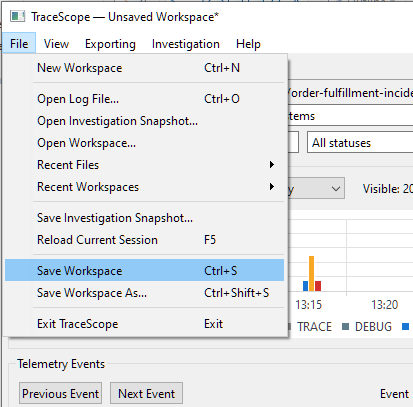
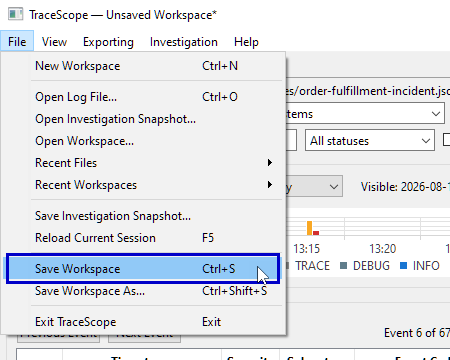
Refresh media for getting started guide

diff --git a/docs/getting-started.md b/docs/getting-started.md
@@ -2,6 +2,8 @@
 
 TraceScope is an offline desktop application for inspecting and investigating file-based diagnostic and telemetry logs. This guide takes you from launching the application to saving your first investigation, using a fictional software incident supplied with the project.
 
+![TraceScope overview](screenshots/getting-started-overview.png)
+
 You do not need to write code, run a server, or use the separate Live-Log Generator for this walkthrough.
 
 **In this guide, you will:**
@@ -62,28 +64,31 @@ The `.jsonl` extension means **JSON Lines**: each line holds an individual JSON 
 
 1. In TraceScope, choose **File > Open Log File...** (`Ctrl+O` on Windows).
 
-![Opening a log from the file menu](screenshots/getting-started-open-log.png)
+   ![Opening a log from the file menu](screenshots/getting-started-open-log.png)
+2. In the **Import Configuration** dialog, select **Browse...**
 
-2. In the **Import Configuration** dialog, select **Browse...** and choose `order-fulfillment-incident.jsonl`.
+   ![Browse for a log file](screenshots/getting-started-browse.png)
 
-![Browse for a log file](screenshots/getting-started-browse.png)
+   and choose `order-fulfillment-incident.jsonl`.
 
+   ![Browse for a log file](screenshots/getting-started-filename.png)
 3. Select **Load Profile...** and choose `order-fulfillment-incident-profile.json` from the `samples/profiles/` directory.
 
-![Loading a log profile](screenshots/getting-started-load-profile.png)
+   ![Loading a log profile](screenshots/getting-started-load-profile.png)
 
-4. Confirm that the profile is named **Order Fulfillment Incident**, the selected format is **JSON Lines**, and the configuration reports that the profile is valid.
+4. Confirm that the profile is named **Order Fulfillment Incident**, the selected format is **JSON Lines**,
 
-![Order Fulfillment Incident profile](screenshots/getting-started-profile-and-format.png)
-![Profile validation](screenshots/getting-started-profile-validation.png)
+   ![Order Fulfillment Incident profile](screenshots/getting-started-profile-and-format.png)
 
+   and the configuration reports that the profile is valid.
+
+   ![Profile validation](screenshots/getting-started-profile-validation.png)
 5. Examine the preview. You should see recognizable timestamps, severities, subsystems, and messages rather than having to interpret raw JSON yourself.
 
-![Profile preview](screenshots/getting-started-profile-preview.png)
-
+   ![Profile preview](screenshots/getting-started-profile-preview.png)
 6. Select **Import** to open the investigation.
 
-![Import profile](screenshots/getting-started-import.png)
+   ![Import profile](screenshots/getting-started-import.png)
 
 The Import Configuration layout may differ according to your window size. Its controls and validation have the same purpose in the wide and compact layouts.
 
@@ -93,23 +98,22 @@ The Import Configuration layout may differ according to your window size. Its co
 
 After the import, the log is displayed as an investigation. Take a moment to explore the main areas:
 
-- **Event table:** Browse, sort, and select normalized records. Source-specific fields appear alongside recognized investigation fields where available. Active categorical filter values appear bold within records.
+- **Event table:** Browse, sort, and select normalized records.
 
-![Event table](screenshots/getting-started-event-table.png)
+   ![Event table](screenshots/getting-started-event-table.png)
 
+   Source-specific fields appear alongside recognized investigation fields where available. Active categorical filter values appear bold within records.
 - **Filters and search:** Narrow the event table by severity, subsystem, event code, and other available fields, or search across the records.
 
-![Filters and search](screenshots/getting-started-filters-and-search.png)
+   ![Filters and search](screenshots/getting-started-filters-and-search.png)
+- **Event Details:** Select a record row in **Telemetry Events**. The separate **Event Details** panel shows the record's mapped values and **Custom Attributes** before **Source / Provenance**.
 
-- **Event Details:** Select a record row in **Telemetry Events**. The separate **Event Details** panel shows the record's mapped values and **Custom Attributes** before **Source / Provenance**. If you later save an analyst note, it appears above the record information in this same panel. This is also where you can bookmark and annotate evidence.
+   ![Event details](screenshots/getting-started-event-details.png)
 
-![Event details](screenshots/getting-started-event-details.png)
-
+   If you later save an analyst note, it appears above the record information in this same panel. This is also where you can bookmark and annotate evidence.
 - **Timeline and analysis:** Explore how recorded activity changes over time and use the available summary and analytical views to investigate patterns.
 
-![Timeline](screenshots/getting-started-timeline.png)
-![Issue Summary](screenshots/getting-started-issue-summary.png)
-![Analytics](screenshots/getting-started-analytics.png)
+   ![Timeline and analysis](screenshots/getting-started-timeline-and-analysis.png)
 
 ### Adjust the layout for your screen
 
@@ -118,13 +122,16 @@ The investigation may look different on your computer depending on your window s
 If you want more room or need to change the size of the interface:
 
 1. Try maximizing or enlarging the TraceScope window.
-2. Open **View > Interface Scale**. The **100% (System)** option uses the operating system's display scaling without an additional TraceScope multiplier. If the interface is too large for your available space, try **90%**, **80%**, or another smaller option. If controls and text are too small, choose a larger percentage instead. Changes take effect while the application is open.
+2. Open **View > Interface Scale**.
 
-![Interface scale](screenshots/getting-started-interface-scale.png)
+   ![Interface scale](screenshots/getting-started-interface-scale.png)
 
-3. Use the small **chevron near the right side of each section's title** to collapse or expand the Timeline, Telemetry Events, or the entire lower investigation area. You can also drag the dividers between expanded sections to distribute the available space.
+   The **100% (System)** option uses the operating system's display scaling without an additional TraceScope multiplier. If the interface is too large for your available space, try **90%**, **80%**, or another smaller option. If controls and text are too small, choose a larger percentage instead. Changes take effect while the application is open.
+3. Use the small **chevron near the right side of each section's title** to collapse or expand the Timeline, Telemetry Events, or the entire lower investigation area.
 
-![Section chevron](screenshots/getting-started-chevron.png)
+   ![Section chevron](screenshots/getting-started-chevron.png)
+
+   You can also drag the dividers between expanded sections to distribute the available space.
 
 **When space is limited:** Expanding one section may cause a different section to collapse so the requested area can fit. If a section cannot expand, give the window more vertical space or reduce Interface Scale. You can also leave sections collapsed and open only the area you need; there is no requirement to match a particular layout to complete this walkthrough.
 
@@ -135,17 +142,23 @@ The lower investigation area contains the **Issue Summary**, **Findings**, and *
 The sample begins with routine processing and later includes elevated database activity and other operational problems. Rather than reading every line, start by narrowing the investigation.
 
 1. Open the severity filter, initially labeled **All severities**.
-2. Select `WARN` and `ERROR` to limit the visible records to those severity levels. Notice that the severity values **WARN** and **ERROR** now appear in **bold** in the Event Table. This indicates that those values are included in your active severity filter.
 
-![Severity filtering](screenshots/getting-started-severity-filtering.png)
+   ![Severity filter](screenshots/getting-started-all-severities.png)
+2. Select `WARN` and `ERROR` to limit the visible records to those severity levels.
 
+   ![Severity filtering](screenshots/getting-started-severity-filtering.png)
+
+   Notice that the severity values **WARN** and **ERROR** now appear in **bold** in the Event Table. This indicates that those values are included in your active severity filter.
+
+   ![Active severity filters](screenshots/getting-started-severity-filtering-2.png)
 3. Inspect the remaining events in the **Telemetry Events** table. Find a record with the event code `DB_POOL_HIGH`; the associated message reports elevated database connection-pool utilization.
 
-![Elevated event](screenshots/getting-started-elevated-event.png)
+   ![Elevated event](screenshots/getting-started-elevated-event.png)
+4. Select that **record row in the Event Table**, then look at the separate **Event Details** panel below.
 
-4. Select that **record row in the Event Table**, then look at the separate **Event Details** panel below. Pay particular attention to its timestamp, subsystem, event code, message, source-record context, and any relevant custom attributes.
+   ![Elevated event details](screenshots/getting-started-elevated-event-details.png)
 
-![Elevated event details](screenshots/getting-started-elevated-event-details.png)
+   Pay particular attention to its timestamp, subsystem, event code, message, source-record context, and any relevant custom attributes.
 
 You have now moved from an entire source file to a specific record worth examining. The filter limits what you see; it does not remove records from the imported investigation.
 
@@ -159,30 +172,41 @@ You can use **Reset Filters** whenever you want to return to the full visible da
 
 With the `DB_POOL_HIGH` record still selected in the Event Table:
 
-1. In **Event Details**, select **Bookmark Event**. Look back at the Event Table: a **star (★) appears beside that record's event number to indicate its new Bookmarked status**.
+1. In **Event Details**, select **Bookmark Event**.
 
-![Bookmark event](screenshots/getting-started-bookmark-event.png)
-![Bookmark star](screenshots/getting-started-bookmark-star.png)
+   ![Bookmark event](screenshots/getting-started-bookmark-event.png)
 
-2. In **Event Details**, change **Finding status** from **None** to **Open**. A bookmark marks a record for your attention; assigning a finding status also adds it to your formal findings list.
+   Look back at the Event Table: a **star (★) appears beside that record's event number to indicate its new Bookmarked status**.
 
-![Finding status](screenshots/getting-started-finding-status.png)
+   ![Bookmark star](screenshots/getting-started-bookmark-star.png)
+2. In **Event Details**, change **Finding status** from **None** to **Open**.
 
+   ![Finding status](screenshots/getting-started-finding-status.png)
+
+   A bookmark marks a record for your attention; assigning a finding status also adds it to your formal findings list.
 3. In the lower investigation area, select the **Findings** tab. If that area is collapsed, expand it using its chevron first. Find your newly created **Open** finding in the list. Its text initially begins with **(No analyst note)** and includes the event's code and message.
 
-![New finding](screenshots/getting-started-new-finding.png)
+   ![New finding](screenshots/getting-started-new-finding.png)
+4. Return to **Event Details** for the selected record and select **Add Note**.
 
-4. Return to **Event Details** for the selected record and select **Add Note**. Enter a brief observation, such as: `Review this database-pool warning alongside subsequent order-processing and dependency failures.` Select **Save** in the note editor. The text appears immediately in an **Analyst Note** block above the record details, and the button changes to **Edit Note**.
+   ![Add note](screenshots/getting-started-add-note.png)
 
-![Add note](screenshots/getting-started-add-note.png)
-![Save note](screenshots/getting-started-save-note.png)
-![Edit note](screenshots/getting-started-edit-note.png)
+   Enter a brief observation, such as: `Review this database-pool warning alongside subsequent order-processing and dependency failures.` Select **Save** in the note editor.
+   
+   ![Save note](screenshots/getting-started-save-note.png)
+   
+   The text appears immediately in an **Analyst Note** block above the record details, and the button changes to **Edit Note**.
 
-5. Look at the **Findings** tab again. The entry's default **(No analyst note)** description has been replaced by **your note**. This demonstrates how the Event Table, Event Details, and Findings tab represent the same underlying record and investigation state.
+   ![Edit note](screenshots/getting-started-edit-note.png)
+5. Look at the **Findings** tab again. The entry's default **(No analyst note)** description has been replaced by **your note**.
 
-![Noted finding](screenshots/getting-started-noted-finding.png)
+   ![Noted finding](screenshots/getting-started-noted-finding.png)
+
+   This demonstrates how the Event Table, Event Details, and Findings tab represent the same underlying record and investigation state.
 
 You have now bookmarked a source record, classified it as an unresolved finding, and attached an observation directly to that evidence. You can return to it through the bookmark and finding controls as you continue investigating.
+
+![Bookmark and finding filters](screenshots/getting-started-bookmark-and-finding-filters.png)
 
 ## 7. Save your workspace
 
@@ -198,13 +222,17 @@ To verify this workflow, you can use **File > Open Workspace...** to reopen the 
 
 **What happens to the log evidence when you save?** Saving a workspace creates both the `.tsw` workspace file and a **companion folder containing a durable `.tsinv` snapshot for each open investigation**. The snapshots preserve each investigation's normalized evidence as it existed when you saved; the `.tsw` file preserves the broader workspace and investigation state. Keep the companion `<workspace-name>.sessions/` folder together with the `.tsw` file if you move, back up, or share the saved workspace; the `.tsw` file alone is not the complete saved package.
 
-An investigation that was **SourceBacked** remains SourceBacked when you save: its original external log is still the authoritative source for normal reopening and reloading. If that source is missing when you reopen the workspace, TraceScope offers **Open Saved Snapshot** so you can recover the saved evidence without the original log. Choosing that option restores the affected investigation as **SnapshotBacked**. Saving therefore *does* preserve the investigation's log evidence; it does not automatically change that document's source-backing mode.
+An investigation that was **SourceBacked** remains SourceBacked when you save: its original external log is still the authoritative source for normal reopening and reloading. If that source is missing when you reopen the workspace, TraceScope offers **Open Saved Snapshot** so you can recover the saved evidence without the original log.
 
 ![Restore saved investigation snapshot](screenshots/getting-started-restore-snapshot.png)
 
-You can also save an individual investigation as a standalone `.tsinv` snapshot, separately from the full workspace. The detailed distinctions among source backing, saved snapshots, and recovery are covered in [Saving and Restoring](saving-and-restoring.md).
+Choosing that option restores the affected investigation as **SnapshotBacked**. Saving therefore *does* preserve the investigation's log evidence; it does not automatically change that document's source-backing mode.
+
+You can also save an individual investigation as a standalone `.tsinv` snapshot, separately from the full workspace.
 
 ![Save investigation snapshot](screenshots/getting-started-save-snapshot.png)
+
+The detailed distinctions among source backing, saved snapshots, and recovery are covered in [Saving and Restoring](saving-and-restoring.md).
 
 ## What you've accomplished
 
